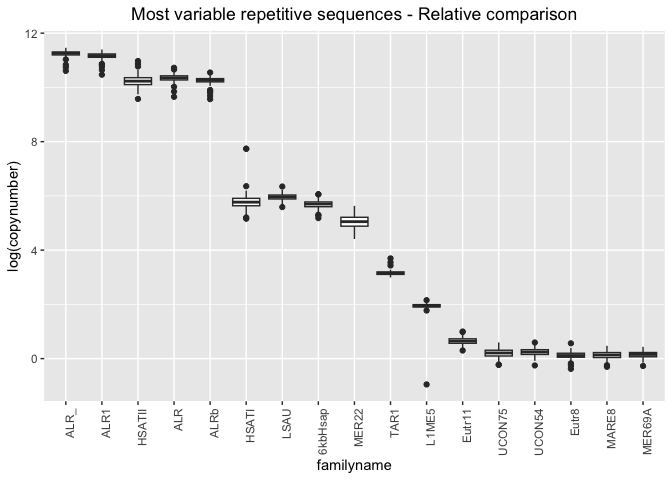
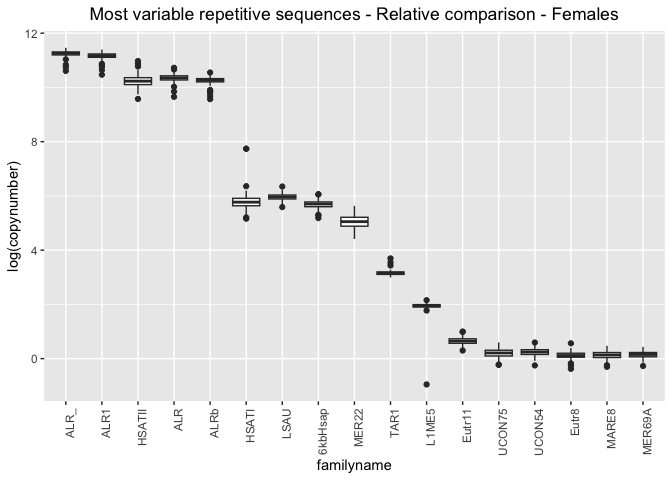
Update script 1 (HGDP-noPCR)
Documented a bit (L1ME5)

Changed region(s): [[0.125, 0.0, 0.9062, 0.0625]]

diff --git a/documentation/HGDP/2. no-pcr/01_HGDP_TEvariation.md b/documentation/HGDP/2. no-pcr/01_HGDP_TEvariation.md
@@ -52,13 +52,15 @@ HGDP <- read_csv("/Volumes/Temp1/rpianezza/TE/summary-HGDP/USEME_HGDP_complete_r
     ##   batch = col_character()
     ## )
 
+## Absolute variation
+
 ``` r
 f_MMM <- filter(HGDP, type == "te", sex == "female") %>% group_by(familyname) %>% dplyr::summarise(min = min(copynumber), mean = mean(copynumber), max = max(copynumber))
 
 m_MMM <- filter(HGDP, type == "te", sex == "male") %>% group_by(familyname) %>% dplyr::summarise(min = min(copynumber), mean = mean(copynumber), max = max(copynumber))
 ```
 
-## Females
+### Females
 
 ``` r
 f_outliers_names <- dplyr::mutate(f_MMM, diff = max-min) %>% filter(diff>200 & diff<Inf)
@@ -74,7 +76,7 @@ ggplot(f_outliers, aes(x=familyname, y=log(copynumber))) + geom_boxplot(notch=F)
 
 ![](01_HGDP_TEvariation_files/figure-gfm/unnamed-chunk-3-1.png)<!-- -->
 
-## Males
+### Males
 
 ``` r
 m_outliers_names <- mutate(m_MMM, diff = max-min) %>% filter(diff>200 & diff<Inf)
@@ -89,6 +91,9 @@ ggtitle("Most variable repetitive sequences - Males") + theme(plot.title = eleme
 ```
 
 ![](01_HGDP_TEvariation_files/figure-gfm/unnamed-chunk-4-1.png)<!-- -->
+\## Relative comparison
+
+### Females
 
 ``` r
 f_outliers_names <- mutate(f_MMM, ratio = max/min) %>% filter(ratio>2 & ratio<Inf & max>1.5)
@@ -99,7 +104,7 @@ f_outliers$familyname<-factor(f_outliers$familyname,levels=unique(f_outliers$fam
 
 ggplot(f_outliers, aes(x=familyname, y=log(copynumber))) + geom_boxplot(notch=F) +
   theme(axis.text.x = element_text(angle = 90, hjust = 1))+
-  ggtitle("Most variable repetitive sequences - Relative comparison") + theme(plot.title = element_text(hjust = 0.5))
+  ggtitle("Most variable repetitive sequences - Relative comparison - Females") + theme(plot.title = element_text(hjust = 0.5))
 ```
 
 ![](01_HGDP_TEvariation_files/figure-gfm/unnamed-chunk-5-1.png)<!-- -->
@@ -107,7 +112,7 @@ ggplot(f_outliers, aes(x=familyname, y=log(copynumber))) + geom_boxplot(notch=F)
 Now we have a dataset containing only the TEs with the highest
 differences in abundance between minimum and maximum value.
 
-## Males
+### Males
 
 ``` r
 m_outliers_names <- mutate(m_MMM, ratio = max/min) %>% filter(ratio>2 & ratio<Inf & max>1.5)
@@ -118,7 +123,15 @@ m_outliers$familyname<-factor(m_outliers$familyname,levels=unique(m_outliers$fam
 
 ggplot(m_outliers, aes(x=familyname, y=log(copynumber))) + geom_boxplot(notch=F) +
   theme(axis.text.x = element_text(angle = 90, hjust = 1)) +
-  ggtitle("Most variable repetitive sequences - Relative comparison") + theme(plot.title = element_text(hjust = 0.5))
+  ggtitle("Most variable repetitive sequences - Relative comparison - Males") + theme(plot.title = element_text(hjust = 0.5))
 ```
 
 ![](01_HGDP_TEvariation_files/figure-gfm/unnamed-chunk-6-1.png)<!-- -->
+
+Note that the L1ME5 TE, which was always present in the analysis with
+all the samples, is completely disappeared from the absolute variant TE
+plots. This TE was previously identified as having an uneven coverage,
+with just one small region that was present at very high frequency that
+caused its high variability in copynumber estimate. Furthermore, this
+sequence was identified as AT-microsatellite, thus confirming the fact
+that PCR is having a lot of problem in dealing with satellites.
